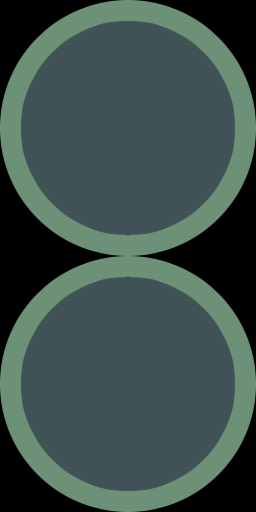
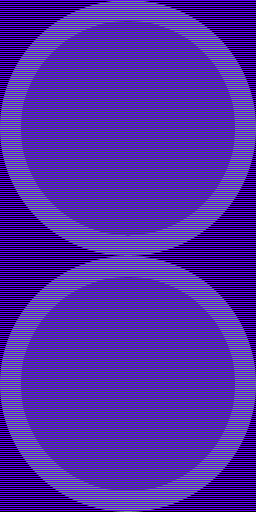
Texturing mostly working as expected

diff --git a/room.py b/room.py
@@ -42,6 +42,7 @@ class Room(object):
         # Texture scales (1.0 means the texture is applied to 1m squares)
         self.floor_texture_scale = data.get("floor_texture_scale", 1.0)
         self.ceiling_texture_scale = data.get("ceiling_texture_scale", 1.0)
+        self.wall_texture_scale = data.get("wall_texture_scale", 1.0)
         
         # Texture rotation, degrees
         self.floor_texture_angle = data.get("floor_texture_angle", 0.0)
@@ -182,6 +183,7 @@ class Room(object):
                 # Account for the texture's dimensions
                 repeat_count *= (float(self.wall_texture.height) /
                                  float(self.wall_texture.width))
+                repeat_count /= self.wall_texture_scale
                 if repeat_count < 1.0:
                     repeat_count = 1.0
                 tex_coord_left = 0.0
@@ -192,6 +194,7 @@ class Room(object):
                 # Account for the texture's dimensions
                 repeat_count *= (float(self.wall_texture.height) /
                                  float(self.wall_texture.width))
+                repeat_count /= self.wall_texture_scale
                 if repeat_count < 1.0:
                     repeat_count = 1.0
                 tex_coord_left = (wall_covered /
@@ -213,18 +216,19 @@ class Room(object):
                     top_right = wall[1][0], wall[1][1], self.ceiling_height
                     bottom_right = wall[1][0], wall[1][1], other.ceiling_height
                     bottom_left = wall[0][0], wall[0][1], other.ceiling_height
-                    y_tex = 1 - ((self.ceiling_height - other.ceiling_height) /
-                                 room_height)
+                    y_tex = ((other.ceiling_height - self.floor_height) /
+                             room_height)
+                    y_tex /= self.wall_texture_scale
                     # First triangle
                     wall_data.extend(top_left)  # Vertex
-                    wall_data.extend([tex_coord_left, 1.0])  # Tex
+                    wall_data.extend([tex_coord_left, 1.0 / self.wall_texture_scale])  # Tex
                     wall_data.extend(top_right)  # Vertex
-                    wall_data.extend([tex_coord_right, 1.0])  # Tex
+                    wall_data.extend([tex_coord_right, 1.0 / self.wall_texture_scale])  # Tex
                     wall_data.extend(bottom_right)  # Vertex
                     wall_data.extend([tex_coord_right, y_tex])  # Tex
                     # Second triangle
                     wall_data.extend(top_left)  # Vertex
-                    wall_data.extend([tex_coord_left, 1.0])  # Tex
+                    wall_data.extend([tex_coord_left, 1.0 / self.wall_texture_scale])  # Tex
                     wall_data.extend(bottom_right)  # Vertex
                     wall_data.extend([tex_coord_right, y_tex])  # Tex
                     wall_data.extend(bottom_left)  # Vertex
@@ -238,8 +242,9 @@ class Room(object):
                     bottom_right = wall[1][0], wall[1][1], self.floor_height
                     bottom_left = wall[0][0], wall[0][1], self.floor_height
                     y_tex = ((other.floor_height - self.floor_height) /
-                                 room_height)
-                    
+                             room_height)
+                    y_tex /= self.wall_texture_scale
+            
                     # First triangle
                     wall_data.extend(top_left)  # Vertex
                     wall_data.extend([tex_coord_left, y_tex])  # Tex
@@ -254,12 +259,7 @@ class Room(object):
                     wall_data.extend([tex_coord_right, 0.0])  # Tex
                     wall_data.extend(bottom_left)  # Vertex
                     wall_data.extend([tex_coord_left, 0.0])  # Tex
-                    
-                    # tri_one = top_left, top_right, bottom_right
-                    # tri_two = top_left, bottom_right, bottom_left
-                    # wall_triangles.append(tri_one)
-                    # wall_triangles.append(tri_two)
-                    
+            
             else:
                 # Top left, going clockwise
                 top_left = wall[0][0], wall[0][1], self.ceiling_height
@@ -269,14 +269,14 @@ class Room(object):
                 
                 # First triangle
                 wall_data.extend(top_left)  # Vertex
-                wall_data.extend([tex_coord_left, 1.0])  # Tex
+                wall_data.extend([tex_coord_left, 1.0 / self.wall_texture_scale])  # Tex
                 wall_data.extend(top_right)  # Vertex
-                wall_data.extend([tex_coord_right, 1.0])  # Tex
+                wall_data.extend([tex_coord_right, 1.0 / self.wall_texture_scale])  # Tex
                 wall_data.extend(bottom_right)  # Vertex
                 wall_data.extend([tex_coord_right, 0.0])  # Tex, TODO: WRONG
                 # Second triangle
                 wall_data.extend(top_left)  # Vertex
-                wall_data.extend([tex_coord_left, 1.0])  # Tex
+                wall_data.extend([tex_coord_left, 1.0 / self.wall_texture_scale])  # Tex
                 wall_data.extend(bottom_right)  # Vertex
                 wall_data.extend([tex_coord_right, 0.0])  # Tex, TODO: WRONG
                 wall_data.extend(bottom_left)  # Vertex
